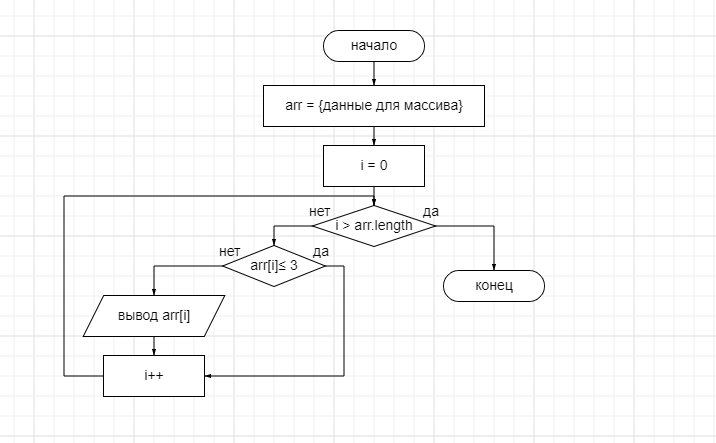
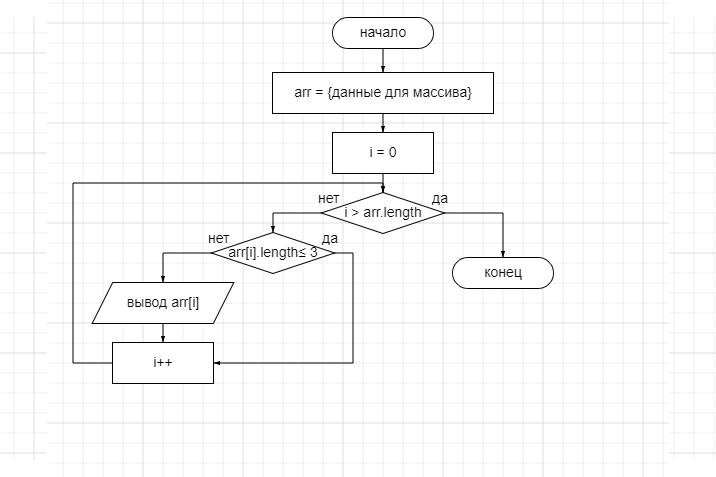
fix shema and create readme

Changed region(s): [[0.0922, 0.0293, 0.7682, 0.763], [0.1536, 0.7923, 0.4916, 0.851], [0.0922, 0.8217, 0.1536, 0.851]]

diff --git a/readme.md b/readme.md
@@ -1,0 +1,17 @@
+# Задача
+Написать программу, которая из имеющегося массива строк формирует массив из строк, длина которых меньше либо равна 3 символам.
+# Решение на блок-схеме
+![block-shema.png](./block-shema.png)
+# Описание решения
+ 1. Получаем массив строк arr
+ 2. Добавляем переменную i
+ 3. Сравниваем значение i и длину массива
+ 4. Если i меньше длины массива делаем следующие команды
+
+    4.1. Если длина значения arr[i] меньше либо равна 3, то выводим её на экран/добавляем в новый массив
+ 
+    4.2. Увеличиваем значение i на 1
+
+    4.3. Возвращаемся к 3 пункту
+
+ 5. Если i равна длине массива, то программа завершается/выводится полученный массив.
